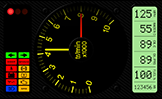
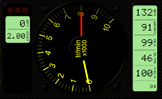
Added wideband voltage and AIT temp

diff --git a/Type98T.qml b/Type98T.qml
@@ -582,8 +582,60 @@ Item {
             z: 2
             height: 448
             width: 139
-            source: "./img/left_column.png"
+            source: if(!root.sidelight) "./img/left_column.png"; else "./img/left_column_lit.png"
         }
+
+        //For those of us who don't run a wideband or AIT temp probe comment out the below.
+
+        Text{
+            x: 38;y:91; z:3
+            color: if(!root.sidelight) root.primary_color; else root.night_light_color
+            text: root.maf.toFixed(0)                   //Need to figure out value here?
+            font.pixelSize: 48
+            horizontalAlignment: Text.AlignRight
+            width: 86
+            font.family: ledCalculator.name
+        }
+        Text {
+            id: ait_label
+            x: 148
+            y: 98
+            z: 4
+            color: if(!root.sidelight) root.primary_color; else root.night_light_color
+            text: "AIT C"
+            font.pixelSize: 14
+            horizontalAlignment: Text.AlignHCenter
+            font.family: bdoGrotesk.name
+            transform: Rotation{
+                angle: 90
+            }
+        }
+
+        Text{
+            x: 38;y:158; z:3
+            color: if(!root.sidelight) root.primary_color; else root.night_light_color
+            text: root.o2.toFixed(2)
+            font.pixelSize: 38
+            horizontalAlignment: Text.AlignRight
+            width: 86
+            font.family: ledCalculator.name
+        }
+        Text {
+            id: wideband_label
+            x: 148
+            y: 157
+            z: 4
+            color: if(!root.sidelight) root.primary_color; else root.night_light_color
+            text: "O2 VLT"
+            font.pixelSize: 14
+            horizontalAlignment: Text.AlignHCenter
+            font.family: bdoGrotesk.name
+            transform: Rotation{
+                angle: 90
+            }
+        }
+        //End AIT/Wideband info
+        
         Image {
             id: dimLight1
             x: 34
